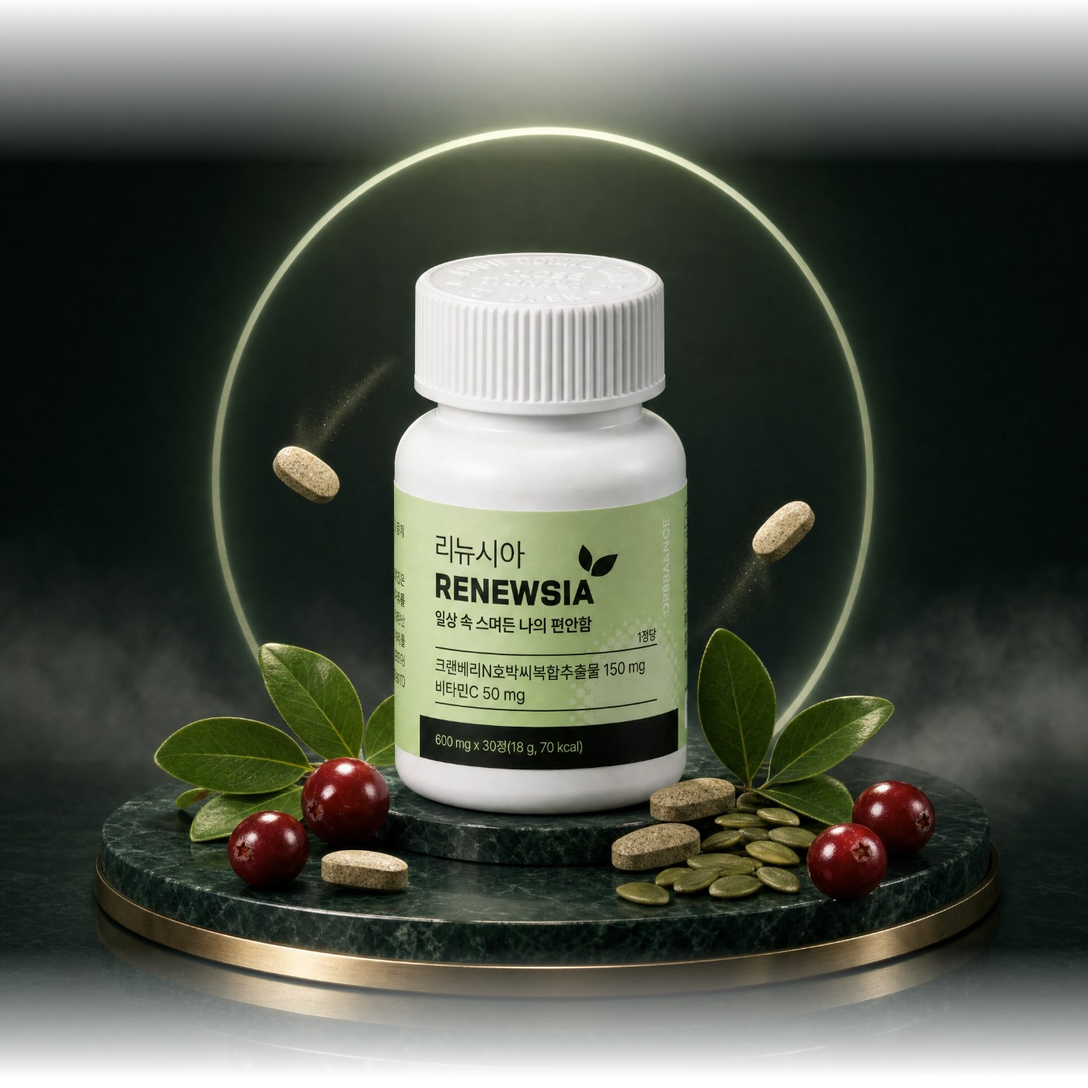
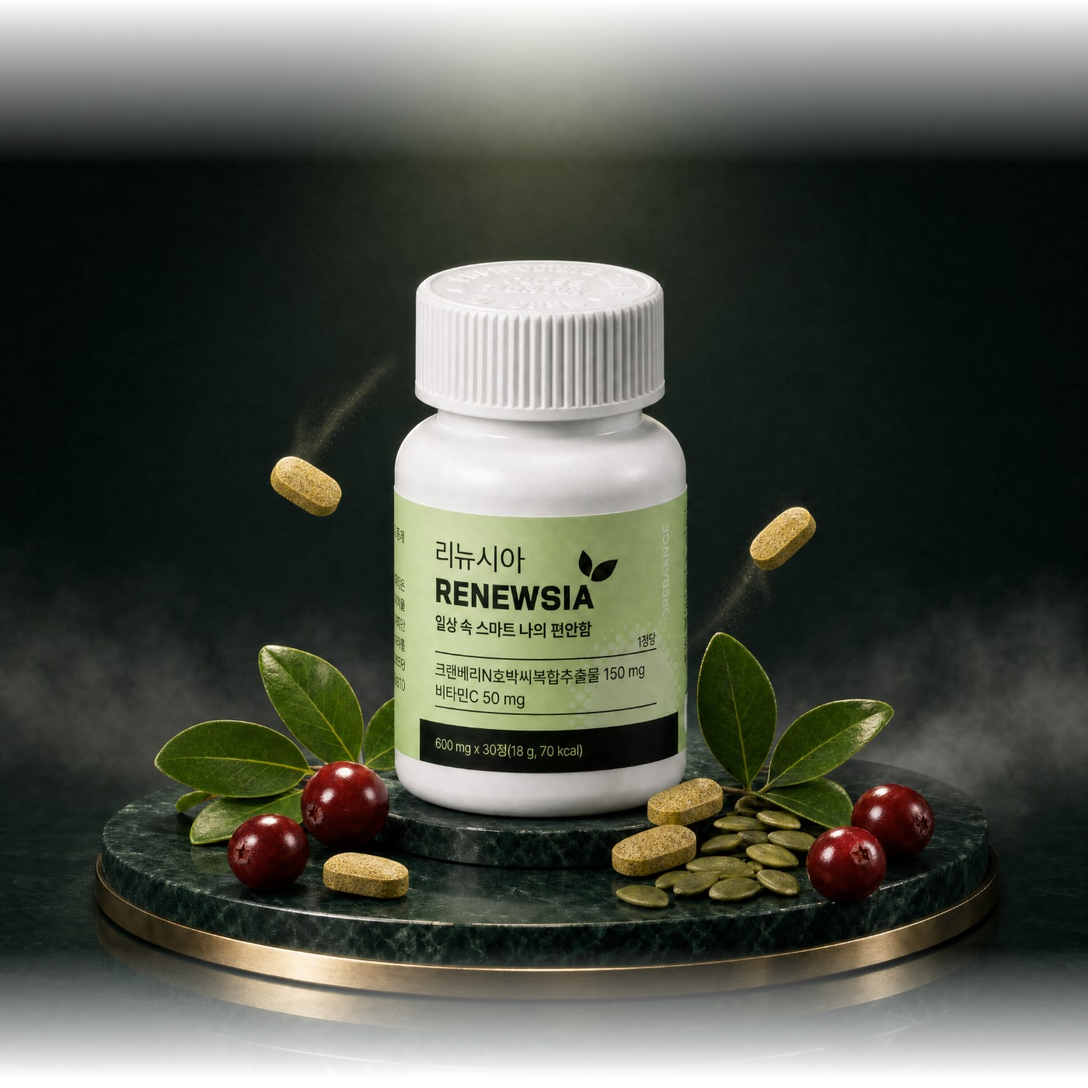
v6: 07 영양제 사진, 08 정제·링 수정, 09 색 변경, 10 논문 연출

diff --git a/gold.html b/gold.html
@@ -1,6 +1,6 @@
 <!doctype html>
-<html lang="ko"><head><meta charset="utf-8"><meta name="viewport" content="width=1000">
-<title>리뉴시아 상세페이지 v5 골드 (Figma 가져오기용)</title>
+<html lang="ko" style=""><head><meta charset="utf-8"><meta name="viewport" content="width=1000">
+<title>리뉴시아 상세페이지 v6 골드 (Figma 가져오기용)</title>
 <link rel="stylesheet" href="https://cdn.jsdelivr.net/gh/orioncactus/pretendard@v1.3.9/dist/web/static/pretendard.min.css">
 <link rel="stylesheet" href="https://fonts.googleapis.com/css2?family=Noto+Serif+KR:wght@600;700&amp;family=Cormorant+Garamond:wght@600&amp;display=swap">
 <style>
@@ -561,6 +561,47 @@ body.m-silver{--m1:#FAFBFC;--m2:#C9CFD6;--m3:#808892;--m4:#E8EBEF;--metal:#C9D0D
 #s16 .fade{margin-top:-1px!important}
 #s16 .dk{padding-bottom:90px!important}
 
+
+/* ===== v6 ===== */
+/* 07 : 흰 분위기 영양제 사진 */
+#s07 .ph{background:#EAEEF7!important}
+#s07 .ph img{-webkit-mask-image:linear-gradient(180deg,rgba(0,0,0,0) 0,#000 130px,#000 100%)!important;mask-image:linear-gradient(180deg,rgba(0,0,0,0) 0,#000 130px,#000 100%)!important}
+#s07 .ph .shade{position:absolute;left:0;right:0;bottom:-1px;height:340px;background:linear-gradient(180deg,rgba(19,32,22,0) 0%,rgba(19,32,22,.28) 26%,rgba(19,32,22,.72) 58%,rgba(19,32,22,.96) 84%,#132016 100%)}
+#s07 .ph .tt{top:96px!important;color:#132016!important;z-index:2}
+#s07 .ph .tt .l0{color:#4F5B53!important}
+#s07 .ph .tt .big{color:#132016!important}
+
+/* 09 : 크랜베리색 제거 → 딥그린 + 메탈 */
+#s09 .pc .chips span{color:#2C5226!important;border-color:rgba(76,140,62,.5)!important}
+#s09 .pc .nm b{color:#4C8C3E!important}
+#s09 .pc .rw2 b{color:#2C5226!important}
+#s09 .pc .band{background:linear-gradient(90deg,#2C5226 0%,#3F7A35 100%)!important;color:rgba(255,255,255,.86)!important}
+#s09 .pc .band b{color:var(--m1)!important}
+#s09 .pc .rib{background:linear-gradient(180deg,var(--m1) 0%,var(--m2) 45%,var(--m3) 100%)!important;color:#132016!important;box-shadow:none!important}
+
+/* 10 : 문제점 키비주얼 연출 */
+#s10 .kv .kvo{position:absolute;left:0;top:0;width:1000px;height:100%;text-align:left;pointer-events:none}
+#s10 .kvp{position:absolute;left:34px;top:74px;width:230px;height:428px;display:flex;flex-direction:column;box-sizing:border-box;padding:24px 22px;background:rgba(8,15,10,.93);border:1px solid rgba(166,209,150,.38);border-radius:18px}
+#s10 .kvp .k1{font-size:20px;font-weight:700;letter-spacing:.16em;color:#A6D196;line-height:1.3}
+#s10 .kvp .k2{font-size:30px;font-weight:800;letter-spacing:-.04em;color:#fff;margin-top:8px;line-height:1.25}
+#s10 .kvp .k3{margin-top:16px;padding-top:12px;border-top:1px solid rgba(166,209,150,.25)}
+#s10 .kvp .k3 .ri{position:relative;font-size:24px;font-weight:600;letter-spacing:-.03em;color:rgba(255,255,255,.88);line-height:1.5;padding:7px 0 7px 20px}
+#s10 .kvp .k3 .ri i{position:absolute;left:0;top:50%;width:9px;height:9px;margin-top:-4px;border-radius:50%;background:#A6D196}
+#s10 .kvp .k4{margin-top:auto;padding-top:14px;border-top:1px solid rgba(166,209,150,.25);font-size:26px;font-weight:800;letter-spacing:-.03em;color:#FFB36B;line-height:1.3}
+#s10 .kvp .k5{font-size:20px;color:rgba(255,255,255,.5);margin-top:6px;line-height:1.3}
+#s10 .kvr{position:absolute;left:420px;top:220px;width:140px;height:140px;box-sizing:border-box;border:2px dashed rgba(255,255,255,.85);border-radius:50%}
+#s10 .kvx{position:absolute;left:484px;top:284px;width:12px;height:12px;border-radius:50%;background:#fff;box-shadow:0 0 0 6px rgba(255,255,255,.22)}
+#s10 .kvl{position:absolute;left:560px;top:289px;width:178px;height:2px;background:rgba(255,255,255,.75)}
+#s10 .kvd{position:absolute;left:734px;top:286px;width:8px;height:8px;border-radius:50%;background:#fff}
+#s10 .kvc{position:absolute;left:750px;top:196px;width:180px}
+#s10 .kvc .c1{font-size:20px;font-weight:700;letter-spacing:.16em;color:#FFB36B;line-height:1.3}
+#s10 .kvc .c2{font-size:32px;font-weight:800;letter-spacing:-.04em;line-height:1.22;color:#fff;margin-top:8px}
+#s10 .kvc .c3{font-size:22px;color:rgba(255,255,255,.72);line-height:1.45;margin-top:10px;letter-spacing:-.03em}
+#s10 .kvg{position:absolute;right:74px;font-size:20px;font-weight:700;letter-spacing:.12em;color:rgba(255,255,255,.72);line-height:1}
+#s10 .kvg.h{top:62px}
+#s10 .kvg.l{top:490px}
+#s10 .kvfn{position:absolute;left:36px;bottom:16px;font-size:20px;color:rgba(255,255,255,.45);letter-spacing:-.02em}
+
 </style><style id="fx-figma">.fx-nopse::before,.fx-nopse::after{content:none!important}
 #s01 .seal{filter:none!important;box-shadow:0 18px 30px rgba(0,0,0,.45);border-radius:50%}
 #s01 .seal .sheen{mix-blend-mode:normal!important}
@@ -689,7 +730,7 @@ body.m-silver{--m1:#FAFBFC;--m2:#C9CFD6;--m3:#808892;--m4:#E8EBEF;--metal:#C9D0D
 <!-- ===== 07 왜 먹어도 똑같을까 ===== -->
 <section class="pd" id="s07">
   <div class="lt" style="padding-top:120px;padding-bottom:30px"><div class="lab"><i></i>Our Starting Point<i></i></div></div>
-  <div class="ph"><img src="s07_01.png" alt="" class="fx-done" style="width: 1000px !important; height: 1000px !important; object-fit: fill !important; object-position: 50% 50% !important; mask-image: none !important;"><div class="tt"><div class="l0">먹어도</div><div class="big">왜 똑같을까,</div></div></div>
+  <div class="ph"><img src="s07_01.png" alt="" class="fx-done" style="width: 1000px !important; height: 1000px !important; object-fit: fill !important; object-position: 50% 50% !important; mask-image: none !important;"><div class="shade"></div><div class="tt"><div class="l0">먹어도</div><div class="big">왜 똑같을까,</div></div></div>
   <div class="dk on-d pb">
     <div class="ask">이런 마음, 한 번쯤 있으셨나요</div>
     <div class="qm">“</div><div class="qt">볼일 보고 나와도<br>개운하지 않아요</div>
@@ -725,10 +766,10 @@ body.m-silver{--m1:#FAFBFC;--m2:#C9CFD6;--m3:#808892;--m4:#E8EBEF;--metal:#C9D0D
   <div class="pt2">기간 한정 최대 할인</div>
   <div class="pt3">LAUNCH PROMOTION</div>
   <div class="cards">
-    <div class="pc"><div class="rib"><svg class="fx-ribbg" xmlns="http://www.w3.org/2000/svg" width="96" height="112" viewBox="0 0 96 112" style="position:absolute;left:0;top:0;z-index:0;display:block"><defs><linearGradient id="fxrib0" x1="0" y1="0" x2="0" y2="1"><stop offset="0" stop-color="#A93A5A"></stop><stop offset="1" stop-color="#8C2341"></stop></linearGradient></defs><polygon points="0,0 96,0 96,112 48,94.08 0,112" fill="url(#fxrib0)"></polygon></svg><b>55<small>%</small></b><span>OFF</span></div><div class="in"><div class="br">RENEWSIA</div><div class="chips"><span>★ 최대 할인 ★</span><span>재구매 최다</span></div><div class="body"><div class="pim"><img src="s09_01.png" alt="" class="fx-done" style="width: 176px !important; height: 160px !important; object-fit: fill !important; object-position: 50% 50% !important; mask-image: none !important;"></div><div class="info"><div class="nm">리뉴시아 <b>4+2 Box</b></div><div class="rw1"><span>정상가</span><span>523,200원</span></div><div class="rw2"><span>프로모션 특가</span><b>238,800원</b></div></div></div></div><div class="band"><span>1박스 당</span><b>39,800원</b></div></div>
-    <div class="pc"><div class="rib"><svg class="fx-ribbg" xmlns="http://www.w3.org/2000/svg" width="96" height="112" viewBox="0 0 96 112" style="position:absolute;left:0;top:0;z-index:0;display:block"><defs><linearGradient id="fxrib1" x1="0" y1="0" x2="0" y2="1"><stop offset="0" stop-color="#A93A5A"></stop><stop offset="1" stop-color="#8C2341"></stop></linearGradient></defs><polygon points="0,0 96,0 96,112 48,94.08 0,112" fill="url(#fxrib1)"></polygon></svg><b>52<small>%</small></b><span>OFF</span></div><div class="in"><div class="br">RENEWSIA</div><div class="chips"><span>★ BEST ★</span><span>가성비 구성</span></div><div class="body"><div class="pim"><img src="s09_02.png" alt="" class="fx-done" style="width: 176px !important; height: 166px !important; object-fit: fill !important; object-position: 50% 50% !important; mask-image: none !important;"></div><div class="info"><div class="nm">리뉴시아 <b>2+1 Box</b></div><div class="rw1"><span>정상가</span><span>261,600원</span></div><div class="rw2"><span>프로모션 특가</span><b>125,700원</b></div></div></div></div><div class="band"><span>1박스 당</span><b>41,900원</b></div></div>
-    <div class="pc"><div class="rib"><svg class="fx-ribbg" xmlns="http://www.w3.org/2000/svg" width="96" height="112" viewBox="0 0 96 112" style="position:absolute;left:0;top:0;z-index:0;display:block"><defs><linearGradient id="fxrib2" x1="0" y1="0" x2="0" y2="1"><stop offset="0" stop-color="#A93A5A"></stop><stop offset="1" stop-color="#8C2341"></stop></linearGradient></defs><polygon points="0,0 96,0 96,112 48,94.08 0,112" fill="url(#fxrib2)"></polygon></svg><b>50<small>%</small></b><span>OFF</span></div><div class="in"><div class="br">RENEWSIA</div><div class="body"><div class="pim"><img src="s09_03.png" alt="" class="fx-done" style="width: 144px !important; height: 176px !important; object-fit: fill !important; object-position: 50% 50% !important; mask-image: none !important;"></div><div class="info"><div class="nm">리뉴시아 <b>2 Box</b></div><div class="rw1"><span>정상가</span><span>174,400원</span></div><div class="rw2"><span>프로모션 특가</span><b>86,200원</b></div></div></div></div><div class="band"><span>1박스 당</span><b>43,100원</b></div></div>
-    <div class="pc"><div class="rib"><svg class="fx-ribbg" xmlns="http://www.w3.org/2000/svg" width="96" height="112" viewBox="0 0 96 112" style="position:absolute;left:0;top:0;z-index:0;display:block"><defs><linearGradient id="fxrib3" x1="0" y1="0" x2="0" y2="1"><stop offset="0" stop-color="#A93A5A"></stop><stop offset="1" stop-color="#8C2341"></stop></linearGradient></defs><polygon points="0,0 96,0 96,112 48,94.08 0,112" fill="url(#fxrib3)"></polygon></svg><b>48<small>%</small></b><span>OFF</span></div><div class="in"><div class="br">RENEWSIA</div><div class="body"><div class="pim"><img src="s09_04.png" alt="" class="fx-done" style="width: 115px !important; height: 176px !important; object-fit: fill !important; object-position: 50% 50% !important; mask-image: none !important;"></div><div class="info"><div class="nm">리뉴시아 <b>1 Box</b></div><div class="rw1"><span>정상가</span><span>87,200원</span></div><div class="rw2"><span>프로모션 특가</span><b>44,800원</b></div></div></div></div><div class="band"><span>1박스 당</span><b>44,800원</b></div></div>
+    <div class="pc"><div class="rib"><svg class="fx-ribbg" xmlns="http://www.w3.org/2000/svg" width="96" height="112" viewBox="0 0 96 112" style="position:absolute;left:0;top:0;z-index:0;display:block"><defs><linearGradient id="fxrib0" x1="0" y1="0" x2="0" y2="1"><stop offset="0%" stop-color="rgb(247, 233, 190)"></stop><stop offset="45%" stop-color="rgb(217, 188, 124)"></stop><stop offset="100%" stop-color="rgb(156, 122, 60)"></stop></linearGradient></defs><polygon points="0,0 96,0 96,112 48,94.08 0,112" fill="url(#fxrib0)"></polygon></svg><b>55<small>%</small></b><span>OFF</span></div><div class="in"><div class="br">RENEWSIA</div><div class="chips"><span>★ 최대 할인 ★</span><span>재구매 최다</span></div><div class="body"><div class="pim"><img src="s09_01.png" alt="" class="fx-done" style="width: 176px !important; height: 160px !important; object-fit: fill !important; object-position: 50% 50% !important; mask-image: none !important;"></div><div class="info"><div class="nm">리뉴시아 <b>4+2 Box</b></div><div class="rw1"><span>정상가</span><span>523,200원</span></div><div class="rw2"><span>프로모션 특가</span><b>238,800원</b></div></div></div></div><div class="band"><span>1박스 당</span><b>39,800원</b></div></div>
+    <div class="pc"><div class="rib"><svg class="fx-ribbg" xmlns="http://www.w3.org/2000/svg" width="96" height="112" viewBox="0 0 96 112" style="position:absolute;left:0;top:0;z-index:0;display:block"><defs><linearGradient id="fxrib1" x1="0" y1="0" x2="0" y2="1"><stop offset="0%" stop-color="rgb(247, 233, 190)"></stop><stop offset="45%" stop-color="rgb(217, 188, 124)"></stop><stop offset="100%" stop-color="rgb(156, 122, 60)"></stop></linearGradient></defs><polygon points="0,0 96,0 96,112 48,94.08 0,112" fill="url(#fxrib1)"></polygon></svg><b>52<small>%</small></b><span>OFF</span></div><div class="in"><div class="br">RENEWSIA</div><div class="chips"><span>★ BEST ★</span><span>가성비 구성</span></div><div class="body"><div class="pim"><img src="s09_02.png" alt="" class="fx-done" style="width: 176px !important; height: 166px !important; object-fit: fill !important; object-position: 50% 50% !important; mask-image: none !important;"></div><div class="info"><div class="nm">리뉴시아 <b>2+1 Box</b></div><div class="rw1"><span>정상가</span><span>261,600원</span></div><div class="rw2"><span>프로모션 특가</span><b>125,700원</b></div></div></div></div><div class="band"><span>1박스 당</span><b>41,900원</b></div></div>
+    <div class="pc"><div class="rib"><svg class="fx-ribbg" xmlns="http://www.w3.org/2000/svg" width="96" height="112" viewBox="0 0 96 112" style="position:absolute;left:0;top:0;z-index:0;display:block"><defs><linearGradient id="fxrib2" x1="0" y1="0" x2="0" y2="1"><stop offset="0%" stop-color="rgb(247, 233, 190)"></stop><stop offset="45%" stop-color="rgb(217, 188, 124)"></stop><stop offset="100%" stop-color="rgb(156, 122, 60)"></stop></linearGradient></defs><polygon points="0,0 96,0 96,112 48,94.08 0,112" fill="url(#fxrib2)"></polygon></svg><b>50<small>%</small></b><span>OFF</span></div><div class="in"><div class="br">RENEWSIA</div><div class="body"><div class="pim"><img src="s09_03.png" alt="" class="fx-done" style="width: 144px !important; height: 176px !important; object-fit: fill !important; object-position: 50% 50% !important; mask-image: none !important;"></div><div class="info"><div class="nm">리뉴시아 <b>2 Box</b></div><div class="rw1"><span>정상가</span><span>174,400원</span></div><div class="rw2"><span>프로모션 특가</span><b>86,200원</b></div></div></div></div><div class="band"><span>1박스 당</span><b>43,100원</b></div></div>
+    <div class="pc"><div class="rib"><svg class="fx-ribbg" xmlns="http://www.w3.org/2000/svg" width="96" height="112" viewBox="0 0 96 112" style="position:absolute;left:0;top:0;z-index:0;display:block"><defs><linearGradient id="fxrib3" x1="0" y1="0" x2="0" y2="1"><stop offset="0%" stop-color="rgb(247, 233, 190)"></stop><stop offset="45%" stop-color="rgb(217, 188, 124)"></stop><stop offset="100%" stop-color="rgb(156, 122, 60)"></stop></linearGradient></defs><polygon points="0,0 96,0 96,112 48,94.08 0,112" fill="url(#fxrib3)"></polygon></svg><b>48<small>%</small></b><span>OFF</span></div><div class="in"><div class="br">RENEWSIA</div><div class="body"><div class="pim"><img src="s09_04.png" alt="" class="fx-done" style="width: 115px !important; height: 176px !important; object-fit: fill !important; object-position: 50% 50% !important; mask-image: none !important;"></div><div class="info"><div class="nm">리뉴시아 <b>1 Box</b></div><div class="rw1"><span>정상가</span><span>87,200원</span></div><div class="rw2"><span>프로모션 특가</span><b>44,800원</b></div></div></div></div><div class="band"><span>1박스 당</span><b>44,800원</b></div></div>
   </div>
   <div class="pnote">※ 표기 가격은 프로모션 기준이며 차수에 따라 변동될 수 있습니다.</div>
 </section>
@@ -738,7 +779,7 @@ body.m-silver{--m1:#FAFBFC;--m2:#C9CFD6;--m3:#808892;--m4:#E8EBEF;--metal:#C9D0D
   <div class="lab metal">Why It Keeps Coming Back</div>
   <div class="l1" style="color:rgba(255,255,255,.72)">방광 불편함이 반복되는 이유</div>
   <div class="hh">한 가지 성분에 기댄 관리</div>
-  <div class="kv"><img src="s10_01.png" alt="" class="fx-done" style="width: 1000px !important; height: 566px !important; object-fit: fill !important; object-position: 50% 50% !important; mask-image: none !important;"></div>
+  <div class="kv"><img src="s10_01.png" alt="" class="fx-done" style="width: 1000px !important; height: 566px !important; object-fit: fill !important; object-position: 50% 50% !important; mask-image: none !important;"><div class="kvo"><div class="kvp"><div class="k1">SINGLE AGENT</div><div class="k2">단일 성분</div><div class="k3"><div class="ri"><i></i>크랜베리 단독</div><div class="ri"><i></i>유산균 단독</div><div class="ri"><i></i>비타민C 단독</div></div><div class="k4">역할은 제한적</div><div class="k5">Eur Urol · 2016</div></div><div class="kvr"></div><div class="kvx"></div><div class="kvl"></div><div class="kvd"></div><div class="kvc"><div class="c1">HOT ZONE</div><div class="c2">반복되는<br>불편</div><div class="c3">단일 성분만으론<br>남는 빈틈</div></div><div class="kvg h">HIGH</div><div class="kvg l">LOW</div><div class="kvfn">※ 논문 내용을 이해하기 쉽게 표현한 연출 이미지입니다.</div></div></div>
   <div class="study">
     <div class="sl">COMBINATION STUDY</div>
     <div class="stt">연구에서 확인된 <b>단일 성분의 한계</b></div>

diff --git a/silver.html b/silver.html
@@ -1,6 +1,6 @@
 <!doctype html>
 <html lang="ko"><head><meta charset="utf-8"><meta name="viewport" content="width=1000">
-<title>리뉴시아 상세페이지 v5 실버 (Figma 가져오기용)</title>
+<title>리뉴시아 상세페이지 v6 실버 (Figma 가져오기용)</title>
 <link rel="stylesheet" href="https://cdn.jsdelivr.net/gh/orioncactus/pretendard@v1.3.9/dist/web/static/pretendard.min.css">
 <link rel="stylesheet" href="https://fonts.googleapis.com/css2?family=Noto+Serif+KR:wght@600;700&amp;family=Cormorant+Garamond:wght@600&amp;display=swap">
 <style>
@@ -561,6 +561,47 @@ body.m-silver{--m1:#FAFBFC;--m2:#C9CFD6;--m3:#808892;--m4:#E8EBEF;--metal:#C9D0D
 #s16 .fade{margin-top:-1px!important}
 #s16 .dk{padding-bottom:90px!important}
 
+
+/* ===== v6 ===== */
+/* 07 : 흰 분위기 영양제 사진 */
+#s07 .ph{background:#EAEEF7!important}
+#s07 .ph img{-webkit-mask-image:linear-gradient(180deg,rgba(0,0,0,0) 0,#000 130px,#000 100%)!important;mask-image:linear-gradient(180deg,rgba(0,0,0,0) 0,#000 130px,#000 100%)!important}
+#s07 .ph .shade{position:absolute;left:0;right:0;bottom:-1px;height:340px;background:linear-gradient(180deg,rgba(19,32,22,0) 0%,rgba(19,32,22,.28) 26%,rgba(19,32,22,.72) 58%,rgba(19,32,22,.96) 84%,#132016 100%)}
+#s07 .ph .tt{top:96px!important;color:#132016!important;z-index:2}
+#s07 .ph .tt .l0{color:#4F5B53!important}
+#s07 .ph .tt .big{color:#132016!important}
+
+/* 09 : 크랜베리색 제거 → 딥그린 + 메탈 */
+#s09 .pc .chips span{color:#2C5226!important;border-color:rgba(76,140,62,.5)!important}
+#s09 .pc .nm b{color:#4C8C3E!important}
+#s09 .pc .rw2 b{color:#2C5226!important}
+#s09 .pc .band{background:linear-gradient(90deg,#2C5226 0%,#3F7A35 100%)!important;color:rgba(255,255,255,.86)!important}
+#s09 .pc .band b{color:var(--m1)!important}
+#s09 .pc .rib{background:linear-gradient(180deg,var(--m1) 0%,var(--m2) 45%,var(--m3) 100%)!important;color:#132016!important;box-shadow:none!important}
+
+/* 10 : 문제점 키비주얼 연출 */
+#s10 .kv .kvo{position:absolute;left:0;top:0;width:1000px;height:100%;text-align:left;pointer-events:none}
+#s10 .kvp{position:absolute;left:34px;top:74px;width:230px;height:428px;display:flex;flex-direction:column;box-sizing:border-box;padding:24px 22px;background:rgba(8,15,10,.93);border:1px solid rgba(166,209,150,.38);border-radius:18px}
+#s10 .kvp .k1{font-size:20px;font-weight:700;letter-spacing:.16em;color:#A6D196;line-height:1.3}
+#s10 .kvp .k2{font-size:30px;font-weight:800;letter-spacing:-.04em;color:#fff;margin-top:8px;line-height:1.25}
+#s10 .kvp .k3{margin-top:16px;padding-top:12px;border-top:1px solid rgba(166,209,150,.25)}
+#s10 .kvp .k3 .ri{position:relative;font-size:24px;font-weight:600;letter-spacing:-.03em;color:rgba(255,255,255,.88);line-height:1.5;padding:7px 0 7px 20px}
+#s10 .kvp .k3 .ri i{position:absolute;left:0;top:50%;width:9px;height:9px;margin-top:-4px;border-radius:50%;background:#A6D196}
+#s10 .kvp .k4{margin-top:auto;padding-top:14px;border-top:1px solid rgba(166,209,150,.25);font-size:26px;font-weight:800;letter-spacing:-.03em;color:#FFB36B;line-height:1.3}
+#s10 .kvp .k5{font-size:20px;color:rgba(255,255,255,.5);margin-top:6px;line-height:1.3}
+#s10 .kvr{position:absolute;left:420px;top:220px;width:140px;height:140px;box-sizing:border-box;border:2px dashed rgba(255,255,255,.85);border-radius:50%}
+#s10 .kvx{position:absolute;left:484px;top:284px;width:12px;height:12px;border-radius:50%;background:#fff;box-shadow:0 0 0 6px rgba(255,255,255,.22)}
+#s10 .kvl{position:absolute;left:560px;top:289px;width:178px;height:2px;background:rgba(255,255,255,.75)}
+#s10 .kvd{position:absolute;left:734px;top:286px;width:8px;height:8px;border-radius:50%;background:#fff}
+#s10 .kvc{position:absolute;left:750px;top:196px;width:180px}
+#s10 .kvc .c1{font-size:20px;font-weight:700;letter-spacing:.16em;color:#FFB36B;line-height:1.3}
+#s10 .kvc .c2{font-size:32px;font-weight:800;letter-spacing:-.04em;line-height:1.22;color:#fff;margin-top:8px}
+#s10 .kvc .c3{font-size:22px;color:rgba(255,255,255,.72);line-height:1.45;margin-top:10px;letter-spacing:-.03em}
+#s10 .kvg{position:absolute;right:74px;font-size:20px;font-weight:700;letter-spacing:.12em;color:rgba(255,255,255,.72);line-height:1}
+#s10 .kvg.h{top:62px}
+#s10 .kvg.l{top:490px}
+#s10 .kvfn{position:absolute;left:36px;bottom:16px;font-size:20px;color:rgba(255,255,255,.45);letter-spacing:-.02em}
+
 </style><style id="fx-figma">.fx-nopse::before,.fx-nopse::after{content:none!important}
 #s01 .seal{filter:none!important;box-shadow:0 18px 30px rgba(0,0,0,.45);border-radius:50%}
 #s01 .seal .sheen{mix-blend-mode:normal!important}
@@ -689,7 +730,7 @@ body.m-silver{--m1:#FAFBFC;--m2:#C9CFD6;--m3:#808892;--m4:#E8EBEF;--metal:#C9D0D
 <!-- ===== 07 왜 먹어도 똑같을까 ===== -->
 <section class="pd" id="s07">
   <div class="lt" style="padding-top:120px;padding-bottom:30px"><div class="lab"><i></i>Our Starting Point<i></i></div></div>
-  <div class="ph"><img src="s07_01.png" alt="" class="fx-done" style="width: 1000px !important; height: 1000px !important; object-fit: fill !important; object-position: 50% 50% !important; mask-image: none !important;"><div class="tt"><div class="l0">먹어도</div><div class="big">왜 똑같을까,</div></div></div>
+  <div class="ph"><img src="s07_01.png" alt="" class="fx-done" style="width: 1000px !important; height: 1000px !important; object-fit: fill !important; object-position: 50% 50% !important; mask-image: none !important;"><div class="shade"></div><div class="tt"><div class="l0">먹어도</div><div class="big">왜 똑같을까,</div></div></div>
   <div class="dk on-d pb">
     <div class="ask">이런 마음, 한 번쯤 있으셨나요</div>
     <div class="qm">“</div><div class="qt">볼일 보고 나와도<br>개운하지 않아요</div>
@@ -725,10 +766,10 @@ body.m-silver{--m1:#FAFBFC;--m2:#C9CFD6;--m3:#808892;--m4:#E8EBEF;--metal:#C9D0D
   <div class="pt2">기간 한정 최대 할인</div>
   <div class="pt3">LAUNCH PROMOTION</div>
   <div class="cards">
-    <div class="pc"><div class="rib"><svg class="fx-ribbg" xmlns="http://www.w3.org/2000/svg" width="96" height="112" viewBox="0 0 96 112" style="position:absolute;left:0;top:0;z-index:0;display:block"><defs><linearGradient id="fxrib0" x1="0" y1="0" x2="0" y2="1"><stop offset="0" stop-color="#A93A5A"></stop><stop offset="1" stop-color="#8C2341"></stop></linearGradient></defs><polygon points="0,0 96,0 96,112 48,94.08 0,112" fill="url(#fxrib0)"></polygon></svg><b>55<small>%</small></b><span>OFF</span></div><div class="in"><div class="br">RENEWSIA</div><div class="chips"><span>★ 최대 할인 ★</span><span>재구매 최다</span></div><div class="body"><div class="pim"><img src="s09_01.png" alt="" class="fx-done" style="width: 176px !important; height: 160px !important; object-fit: fill !important; object-position: 50% 50% !important; mask-image: none !important;"></div><div class="info"><div class="nm">리뉴시아 <b>4+2 Box</b></div><div class="rw1"><span>정상가</span><span>523,200원</span></div><div class="rw2"><span>프로모션 특가</span><b>238,800원</b></div></div></div></div><div class="band"><span>1박스 당</span><b>39,800원</b></div></div>
-    <div class="pc"><div class="rib"><svg class="fx-ribbg" xmlns="http://www.w3.org/2000/svg" width="96" height="112" viewBox="0 0 96 112" style="position:absolute;left:0;top:0;z-index:0;display:block"><defs><linearGradient id="fxrib1" x1="0" y1="0" x2="0" y2="1"><stop offset="0" stop-color="#A93A5A"></stop><stop offset="1" stop-color="#8C2341"></stop></linearGradient></defs><polygon points="0,0 96,0 96,112 48,94.08 0,112" fill="url(#fxrib1)"></polygon></svg><b>52<small>%</small></b><span>OFF</span></div><div class="in"><div class="br">RENEWSIA</div><div class="chips"><span>★ BEST ★</span><span>가성비 구성</span></div><div class="body"><div class="pim"><img src="s09_02.png" alt="" class="fx-done" style="width: 176px !important; height: 166px !important; object-fit: fill !important; object-position: 50% 50% !important; mask-image: none !important;"></div><div class="info"><div class="nm">리뉴시아 <b>2+1 Box</b></div><div class="rw1"><span>정상가</span><span>261,600원</span></div><div class="rw2"><span>프로모션 특가</span><b>125,700원</b></div></div></div></div><div class="band"><span>1박스 당</span><b>41,900원</b></div></div>
-    <div class="pc"><div class="rib"><svg class="fx-ribbg" xmlns="http://www.w3.org/2000/svg" width="96" height="112" viewBox="0 0 96 112" style="position:absolute;left:0;top:0;z-index:0;display:block"><defs><linearGradient id="fxrib2" x1="0" y1="0" x2="0" y2="1"><stop offset="0" stop-color="#A93A5A"></stop><stop offset="1" stop-color="#8C2341"></stop></linearGradient></defs><polygon points="0,0 96,0 96,112 48,94.08 0,112" fill="url(#fxrib2)"></polygon></svg><b>50<small>%</small></b><span>OFF</span></div><div class="in"><div class="br">RENEWSIA</div><div class="body"><div class="pim"><img src="s09_03.png" alt="" class="fx-done" style="width: 144px !important; height: 176px !important; object-fit: fill !important; object-position: 50% 50% !important; mask-image: none !important;"></div><div class="info"><div class="nm">리뉴시아 <b>2 Box</b></div><div class="rw1"><span>정상가</span><span>174,400원</span></div><div class="rw2"><span>프로모션 특가</span><b>86,200원</b></div></div></div></div><div class="band"><span>1박스 당</span><b>43,100원</b></div></div>
-    <div class="pc"><div class="rib"><svg class="fx-ribbg" xmlns="http://www.w3.org/2000/svg" width="96" height="112" viewBox="0 0 96 112" style="position:absolute;left:0;top:0;z-index:0;display:block"><defs><linearGradient id="fxrib3" x1="0" y1="0" x2="0" y2="1"><stop offset="0" stop-color="#A93A5A"></stop><stop offset="1" stop-color="#8C2341"></stop></linearGradient></defs><polygon points="0,0 96,0 96,112 48,94.08 0,112" fill="url(#fxrib3)"></polygon></svg><b>48<small>%</small></b><span>OFF</span></div><div class="in"><div class="br">RENEWSIA</div><div class="body"><div class="pim"><img src="s09_04.png" alt="" class="fx-done" style="width: 115px !important; height: 176px !important; object-fit: fill !important; object-position: 50% 50% !important; mask-image: none !important;"></div><div class="info"><div class="nm">리뉴시아 <b>1 Box</b></div><div class="rw1"><span>정상가</span><span>87,200원</span></div><div class="rw2"><span>프로모션 특가</span><b>44,800원</b></div></div></div></div><div class="band"><span>1박스 당</span><b>44,800원</b></div></div>
+    <div class="pc"><div class="rib"><svg class="fx-ribbg" xmlns="http://www.w3.org/2000/svg" width="96" height="112" viewBox="0 0 96 112" style="position:absolute;left:0;top:0;z-index:0;display:block"><defs><linearGradient id="fxrib0" x1="0" y1="0" x2="0" y2="1"><stop offset="0%" stop-color="rgb(250, 251, 252)"></stop><stop offset="45%" stop-color="rgb(201, 207, 214)"></stop><stop offset="100%" stop-color="rgb(128, 136, 146)"></stop></linearGradient></defs><polygon points="0,0 96,0 96,112 48,94.08 0,112" fill="url(#fxrib0)"></polygon></svg><b>55<small>%</small></b><span>OFF</span></div><div class="in"><div class="br">RENEWSIA</div><div class="chips"><span>★ 최대 할인 ★</span><span>재구매 최다</span></div><div class="body"><div class="pim"><img src="s09_01.png" alt="" class="fx-done" style="width: 176px !important; height: 160px !important; object-fit: fill !important; object-position: 50% 50% !important; mask-image: none !important;"></div><div class="info"><div class="nm">리뉴시아 <b>4+2 Box</b></div><div class="rw1"><span>정상가</span><span>523,200원</span></div><div class="rw2"><span>프로모션 특가</span><b>238,800원</b></div></div></div></div><div class="band"><span>1박스 당</span><b>39,800원</b></div></div>
+    <div class="pc"><div class="rib"><svg class="fx-ribbg" xmlns="http://www.w3.org/2000/svg" width="96" height="112" viewBox="0 0 96 112" style="position:absolute;left:0;top:0;z-index:0;display:block"><defs><linearGradient id="fxrib1" x1="0" y1="0" x2="0" y2="1"><stop offset="0%" stop-color="rgb(250, 251, 252)"></stop><stop offset="45%" stop-color="rgb(201, 207, 214)"></stop><stop offset="100%" stop-color="rgb(128, 136, 146)"></stop></linearGradient></defs><polygon points="0,0 96,0 96,112 48,94.08 0,112" fill="url(#fxrib1)"></polygon></svg><b>52<small>%</small></b><span>OFF</span></div><div class="in"><div class="br">RENEWSIA</div><div class="chips"><span>★ BEST ★</span><span>가성비 구성</span></div><div class="body"><div class="pim"><img src="s09_02.png" alt="" class="fx-done" style="width: 176px !important; height: 166px !important; object-fit: fill !important; object-position: 50% 50% !important; mask-image: none !important;"></div><div class="info"><div class="nm">리뉴시아 <b>2+1 Box</b></div><div class="rw1"><span>정상가</span><span>261,600원</span></div><div class="rw2"><span>프로모션 특가</span><b>125,700원</b></div></div></div></div><div class="band"><span>1박스 당</span><b>41,900원</b></div></div>
+    <div class="pc"><div class="rib"><svg class="fx-ribbg" xmlns="http://www.w3.org/2000/svg" width="96" height="112" viewBox="0 0 96 112" style="position:absolute;left:0;top:0;z-index:0;display:block"><defs><linearGradient id="fxrib2" x1="0" y1="0" x2="0" y2="1"><stop offset="0%" stop-color="rgb(250, 251, 252)"></stop><stop offset="45%" stop-color="rgb(201, 207, 214)"></stop><stop offset="100%" stop-color="rgb(128, 136, 146)"></stop></linearGradient></defs><polygon points="0,0 96,0 96,112 48,94.08 0,112" fill="url(#fxrib2)"></polygon></svg><b>50<small>%</small></b><span>OFF</span></div><div class="in"><div class="br">RENEWSIA</div><div class="body"><div class="pim"><img src="s09_03.png" alt="" class="fx-done" style="width: 144px !important; height: 176px !important; object-fit: fill !important; object-position: 50% 50% !important; mask-image: none !important;"></div><div class="info"><div class="nm">리뉴시아 <b>2 Box</b></div><div class="rw1"><span>정상가</span><span>174,400원</span></div><div class="rw2"><span>프로모션 특가</span><b>86,200원</b></div></div></div></div><div class="band"><span>1박스 당</span><b>43,100원</b></div></div>
+    <div class="pc"><div class="rib"><svg class="fx-ribbg" xmlns="http://www.w3.org/2000/svg" width="96" height="112" viewBox="0 0 96 112" style="position:absolute;left:0;top:0;z-index:0;display:block"><defs><linearGradient id="fxrib3" x1="0" y1="0" x2="0" y2="1"><stop offset="0%" stop-color="rgb(250, 251, 252)"></stop><stop offset="45%" stop-color="rgb(201, 207, 214)"></stop><stop offset="100%" stop-color="rgb(128, 136, 146)"></stop></linearGradient></defs><polygon points="0,0 96,0 96,112 48,94.08 0,112" fill="url(#fxrib3)"></polygon></svg><b>48<small>%</small></b><span>OFF</span></div><div class="in"><div class="br">RENEWSIA</div><div class="body"><div class="pim"><img src="s09_04.png" alt="" class="fx-done" style="width: 115px !important; height: 176px !important; object-fit: fill !important; object-position: 50% 50% !important; mask-image: none !important;"></div><div class="info"><div class="nm">리뉴시아 <b>1 Box</b></div><div class="rw1"><span>정상가</span><span>87,200원</span></div><div class="rw2"><span>프로모션 특가</span><b>44,800원</b></div></div></div></div><div class="band"><span>1박스 당</span><b>44,800원</b></div></div>
   </div>
   <div class="pnote">※ 표기 가격은 프로모션 기준이며 차수에 따라 변동될 수 있습니다.</div>
 </section>
@@ -738,7 +779,7 @@ body.m-silver{--m1:#FAFBFC;--m2:#C9CFD6;--m3:#808892;--m4:#E8EBEF;--metal:#C9D0D
   <div class="lab metal">Why It Keeps Coming Back</div>
   <div class="l1" style="color:rgba(255,255,255,.72)">방광 불편함이 반복되는 이유</div>
   <div class="hh">한 가지 성분에 기댄 관리</div>
-  <div class="kv"><img src="s10_01.png" alt="" class="fx-done" style="width: 1000px !important; height: 566px !important; object-fit: fill !important; object-position: 50% 50% !important; mask-image: none !important;"></div>
+  <div class="kv"><img src="s10_01.png" alt="" class="fx-done" style="width: 1000px !important; height: 566px !important; object-fit: fill !important; object-position: 50% 50% !important; mask-image: none !important;"><div class="kvo"><div class="kvp"><div class="k1">SINGLE AGENT</div><div class="k2">단일 성분</div><div class="k3"><div class="ri"><i></i>크랜베리 단독</div><div class="ri"><i></i>유산균 단독</div><div class="ri"><i></i>비타민C 단독</div></div><div class="k4">역할은 제한적</div><div class="k5">Eur Urol · 2016</div></div><div class="kvr"></div><div class="kvx"></div><div class="kvl"></div><div class="kvd"></div><div class="kvc"><div class="c1">HOT ZONE</div><div class="c2">반복되는<br>불편</div><div class="c3">단일 성분만으론<br>남는 빈틈</div></div><div class="kvg h">HIGH</div><div class="kvg l">LOW</div><div class="kvfn">※ 논문 내용을 이해하기 쉽게 표현한 연출 이미지입니다.</div></div></div>
   <div class="study">
     <div class="sl">COMBINATION STUDY</div>
     <div class="stt">연구에서 확인된 <b>단일 성분의 한계</b></div>

diff --git a/index.html b/index.html
@@ -1,11 +1,11 @@
 <!doctype html>
 <html lang="ko"><head><meta charset="utf-8"><meta name="viewport" content="width=device-width,initial-scale=1">
-<title>리뉴시아 상세페이지 v5 · Figma 가져오기</title>
+<title>리뉴시아 상세페이지 v6 · Figma 가져오기</title>
 <link rel="stylesheet" href="https://cdn.jsdelivr.net/gh/orioncactus/pretendard@v1.3.9/dist/web/static/pretendard.min.css">
 <style>body{margin:0;background:#132016;color:#fff;font-family:Pretendard,sans-serif;display:flex;min-height:100vh;align-items:center;justify-content:center}
 .w{max-width:560px;padding:48px 28px}h1{font-size:26px;margin:0 0 8px}p{color:rgba(255,255,255,.7);line-height:1.7;margin:0 0 28px}
 a{display:block;margin:0 0 12px;padding:18px 22px;border:1px solid rgba(166,209,150,.4);border-radius:14px;color:#A6D196;text-decoration:none;font-weight:700}
 a span{display:block;margin-top:4px;font-weight:400;font-size:13px;color:rgba(255,255,255,.55);word-break:break-all}</style></head>
-<body><div class="w"><h1>리뉴시아 상세페이지 v5</h1><p>html.to.design(Figma 플러그인)에 아래 주소를 붙여넣고, 뷰포트 너비를 1000px로 지정해 가져오세요.</p>
+<body><div class="w"><h1>리뉴시아 상세페이지 v6</h1><p>html.to.design(Figma 플러그인)에 아래 주소를 붙여넣고, 뷰포트 너비를 1000px로 지정해 가져오세요.</p>
 <a href="gold.html">골드 뱃지 버전<span>gold.html</span></a>
 <a href="silver.html">실버 뱃지 버전<span>silver.html</span></a></div></body></html>
